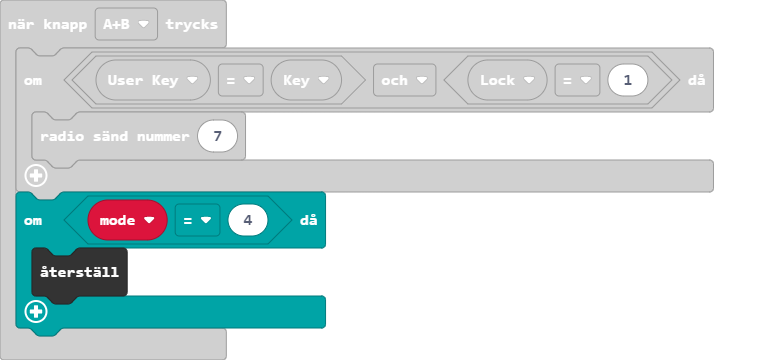
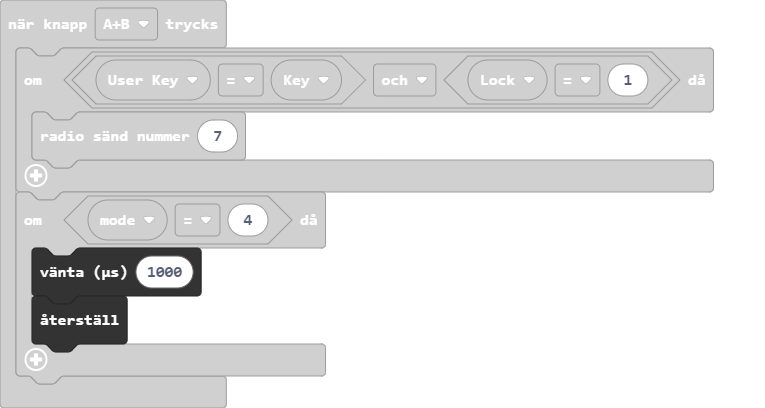
Update main.blocks, main.ts

Changed region(s): [[0.0, 0.0306, 0.932, 0.9472], [0.0301, 0.1833, 0.0601, 0.2444]]

diff --git a/main.ts b/main.ts
@@ -128,6 +128,7 @@ input.onButtonPressed(Button.AB, function () {
         radio.sendNumber(7)
     }
     if (mode == 4) {
+        control.waitMicros(1000)
         control.reset()
     }
 })
